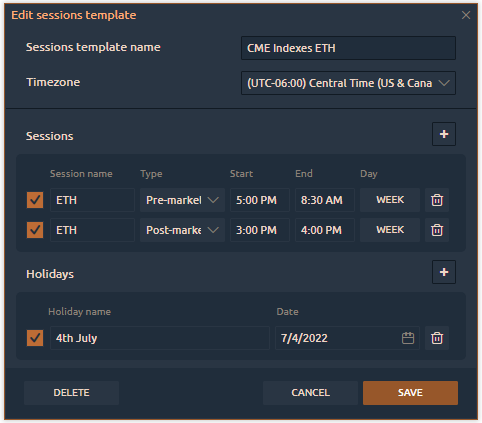
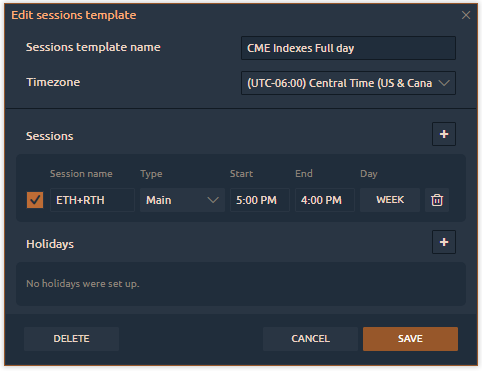
GitBook: [#1007] No subject

diff --git a/connections/connection-to-cqg-amp-futures/README.md b/connections/connection-to-cqg-amp-futures/README.md
@@ -116,11 +116,11 @@ Trading hours for RTH / ETH sessions of CME Indexes (ES, NQ, RTY etc.) you can f
 {% endtab %}
 
 {% tab title="Time for ETH session" %}
-<figure><img src="../../.gitbook/assets/image (2).png" alt=""><figcaption><p>Custom trading session for CME Indexes for Electronic trading Hours (Central Time)</p></figcaption></figure>
+<figure><img src="../../.gitbook/assets/image (2) (2).png" alt=""><figcaption><p>Custom trading session for CME Indexes for Electronic trading Hours (Central Time)</p></figcaption></figure>
 {% endtab %}
 
 {% tab title="Time for full day (RTH+ETH)" %}
-![Custom trading session for CME Indexes for full day (ETH+RTH)](<../../.gitbook/assets/image (360).png>)
+<figure><img src="../../.gitbook/assets/image (2).png" alt=""><figcaption><p>Custom trading session for CME Indexes for the full trading day )ETH+RTH) (Central Time)</p></figcaption></figure>
 {% endtab %}
 {% endtabs %}
 
